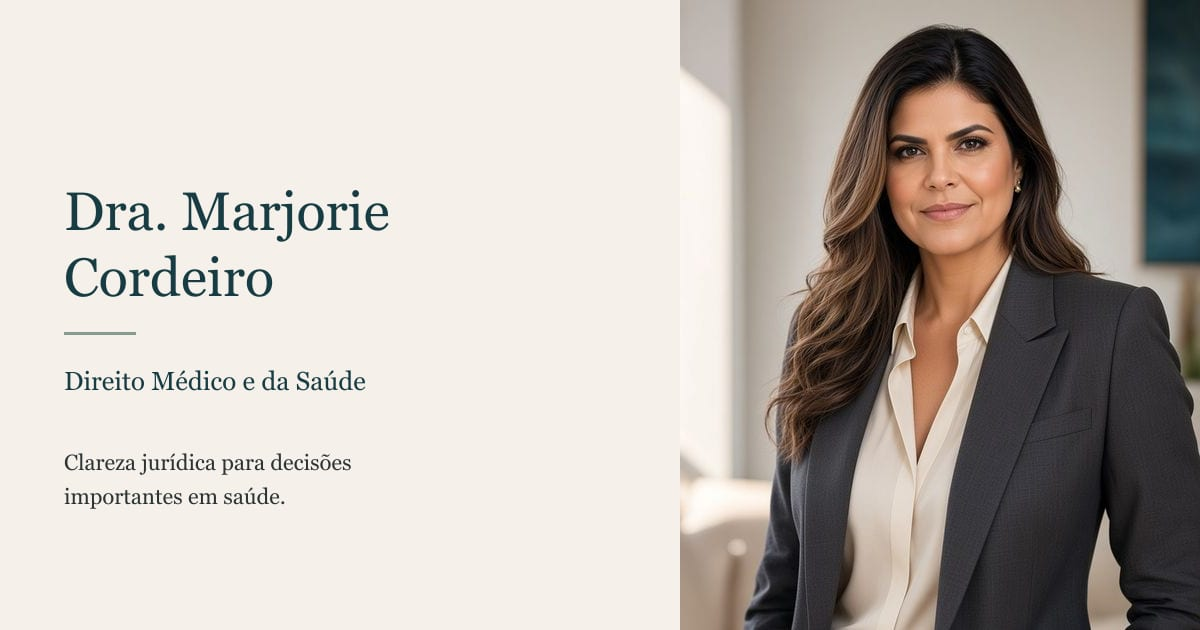
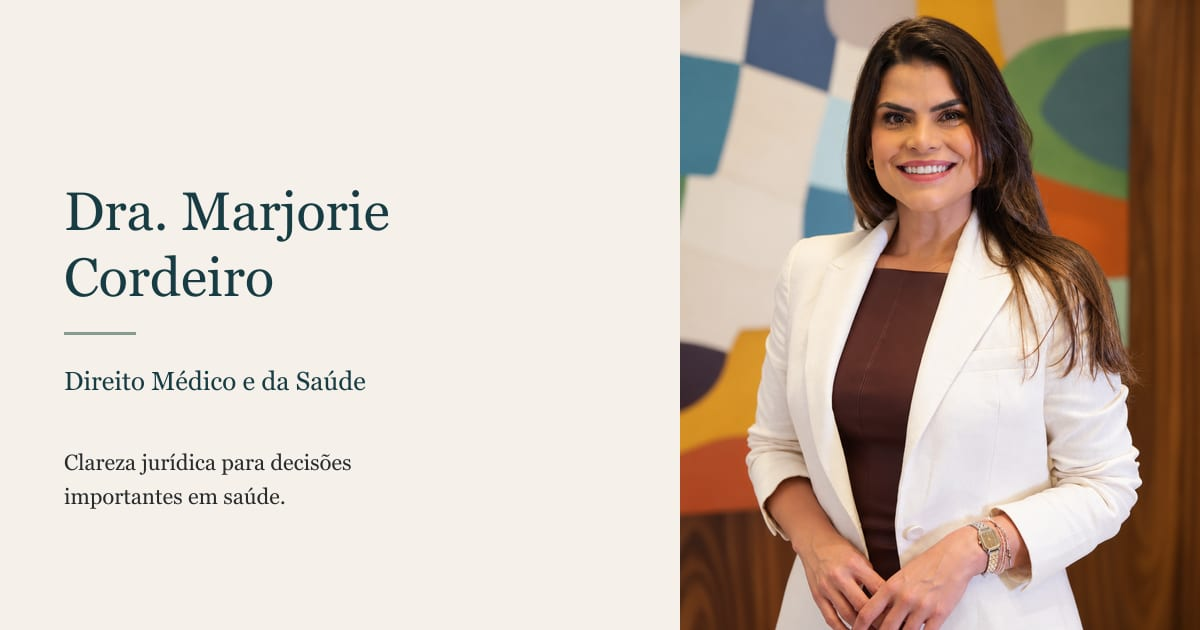
Troca de fotos

diff --git a/src/data/schema.ts b/src/data/schema.ts
@@ -1,7 +1,7 @@
-import autoridade from '../assets/autoridade.jpg';
+import foto1 from '../assets/foto1.png';
 import { faqs, knowsAbout, site } from './site';
 
-const portraitUrl = new URL(autoridade.src, site.url).href;
+const portraitUrl = new URL(foto1.src, site.url).href;
 
 const personId = `${site.url}/#person`;
 const practiceId = `${site.url}/#practice`;
